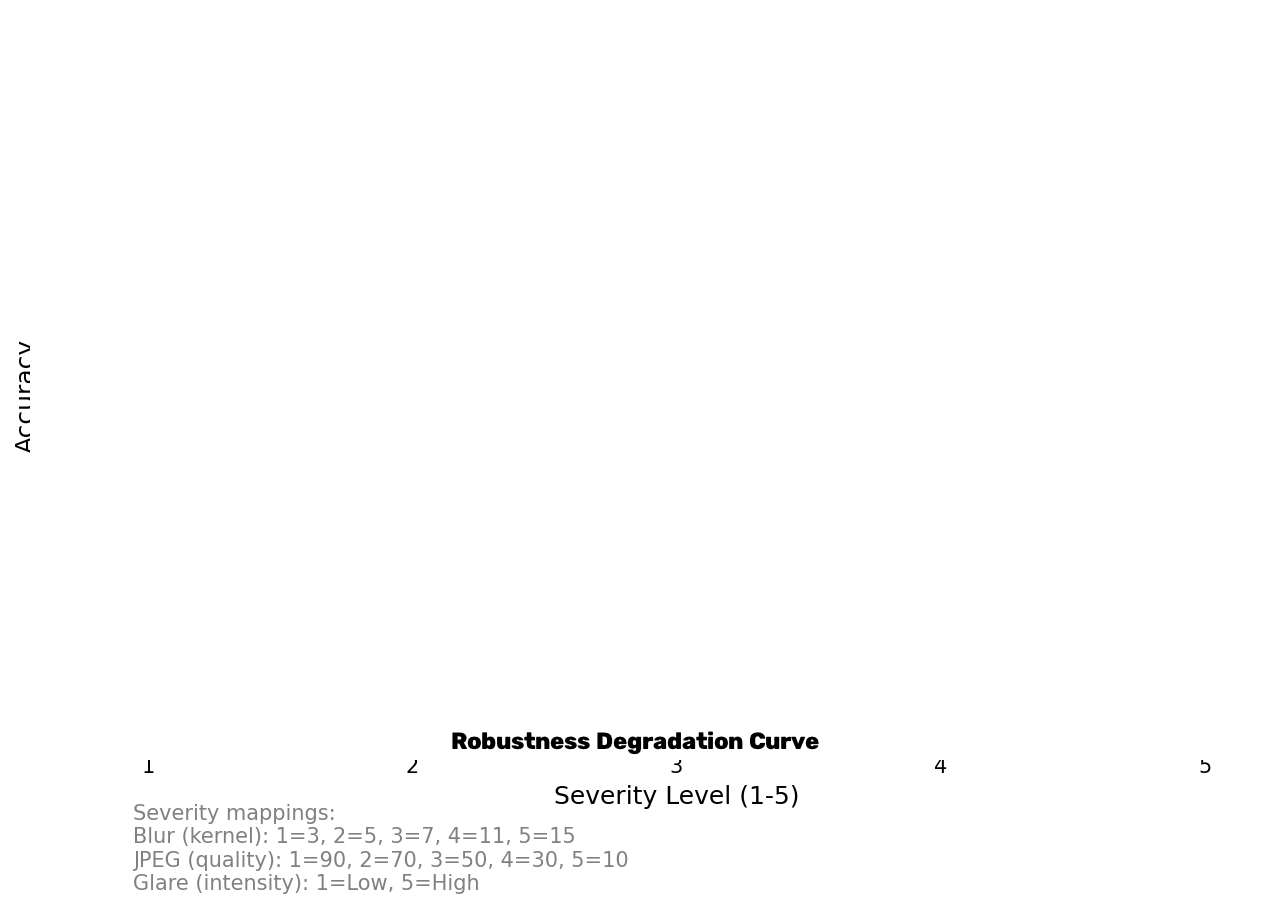
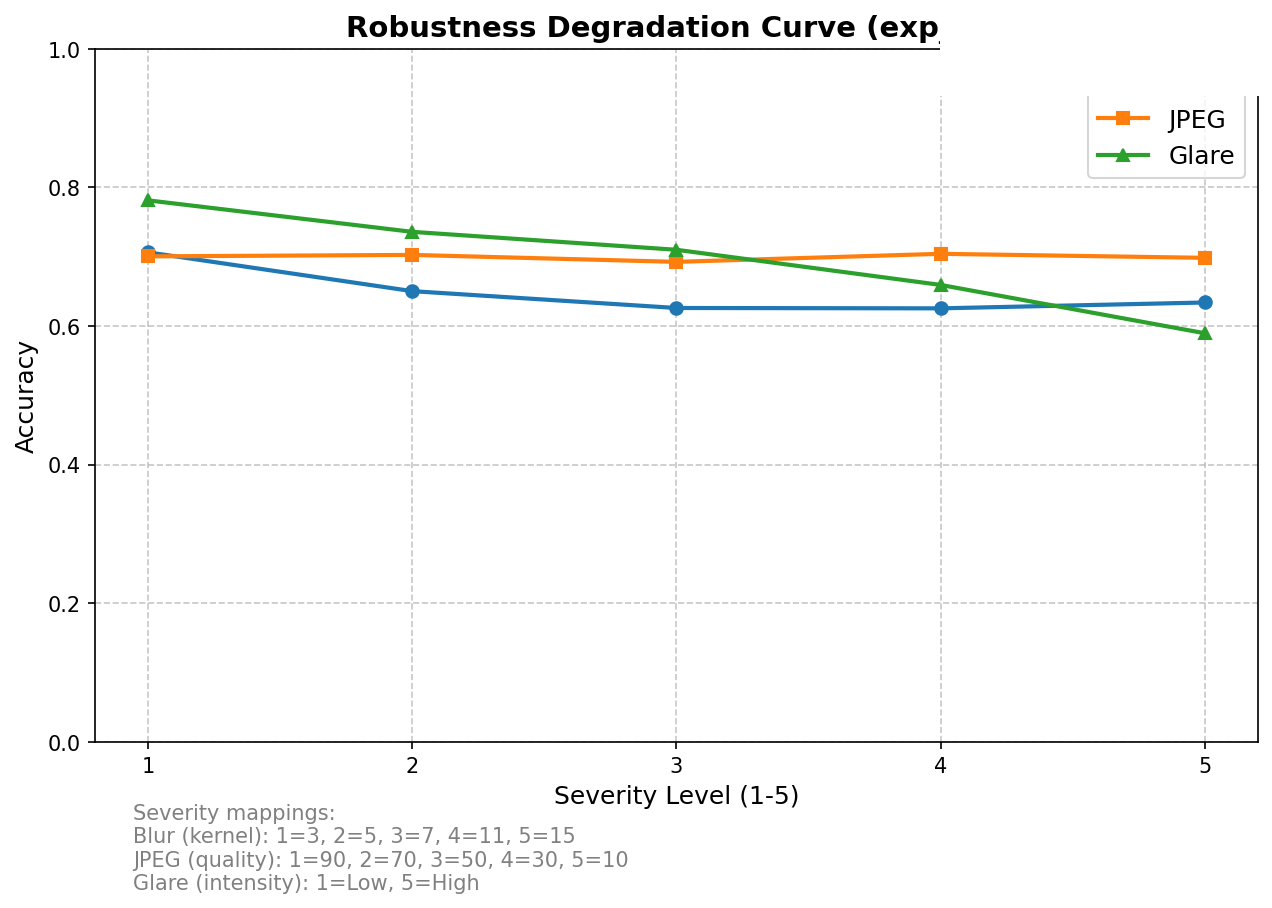
Curve image update

diff --git a/src/run_robustness.py b/src/run_robustness.py
@@ -113,7 +113,7 @@ def generate_degradation_curve(
     plt.plot(severities, results["jpeg"], marker="s", label="JPEG", linewidth=2)
     plt.plot(severities, results["glare"], marker="^", label="Glare", linewidth=2)
     
-    plt.title(f"Robustness Degradation Curve ({best_run_id})", fontsize=14, fontweight="bold")
+    plt.title("Robustness Degradation Curve", fontsize=14, fontweight="bold")
     plt.xlabel("Severity Level (1-5)", fontsize=12)
     plt.ylabel("Accuracy", fontsize=12)
     plt.xticks(severities)
